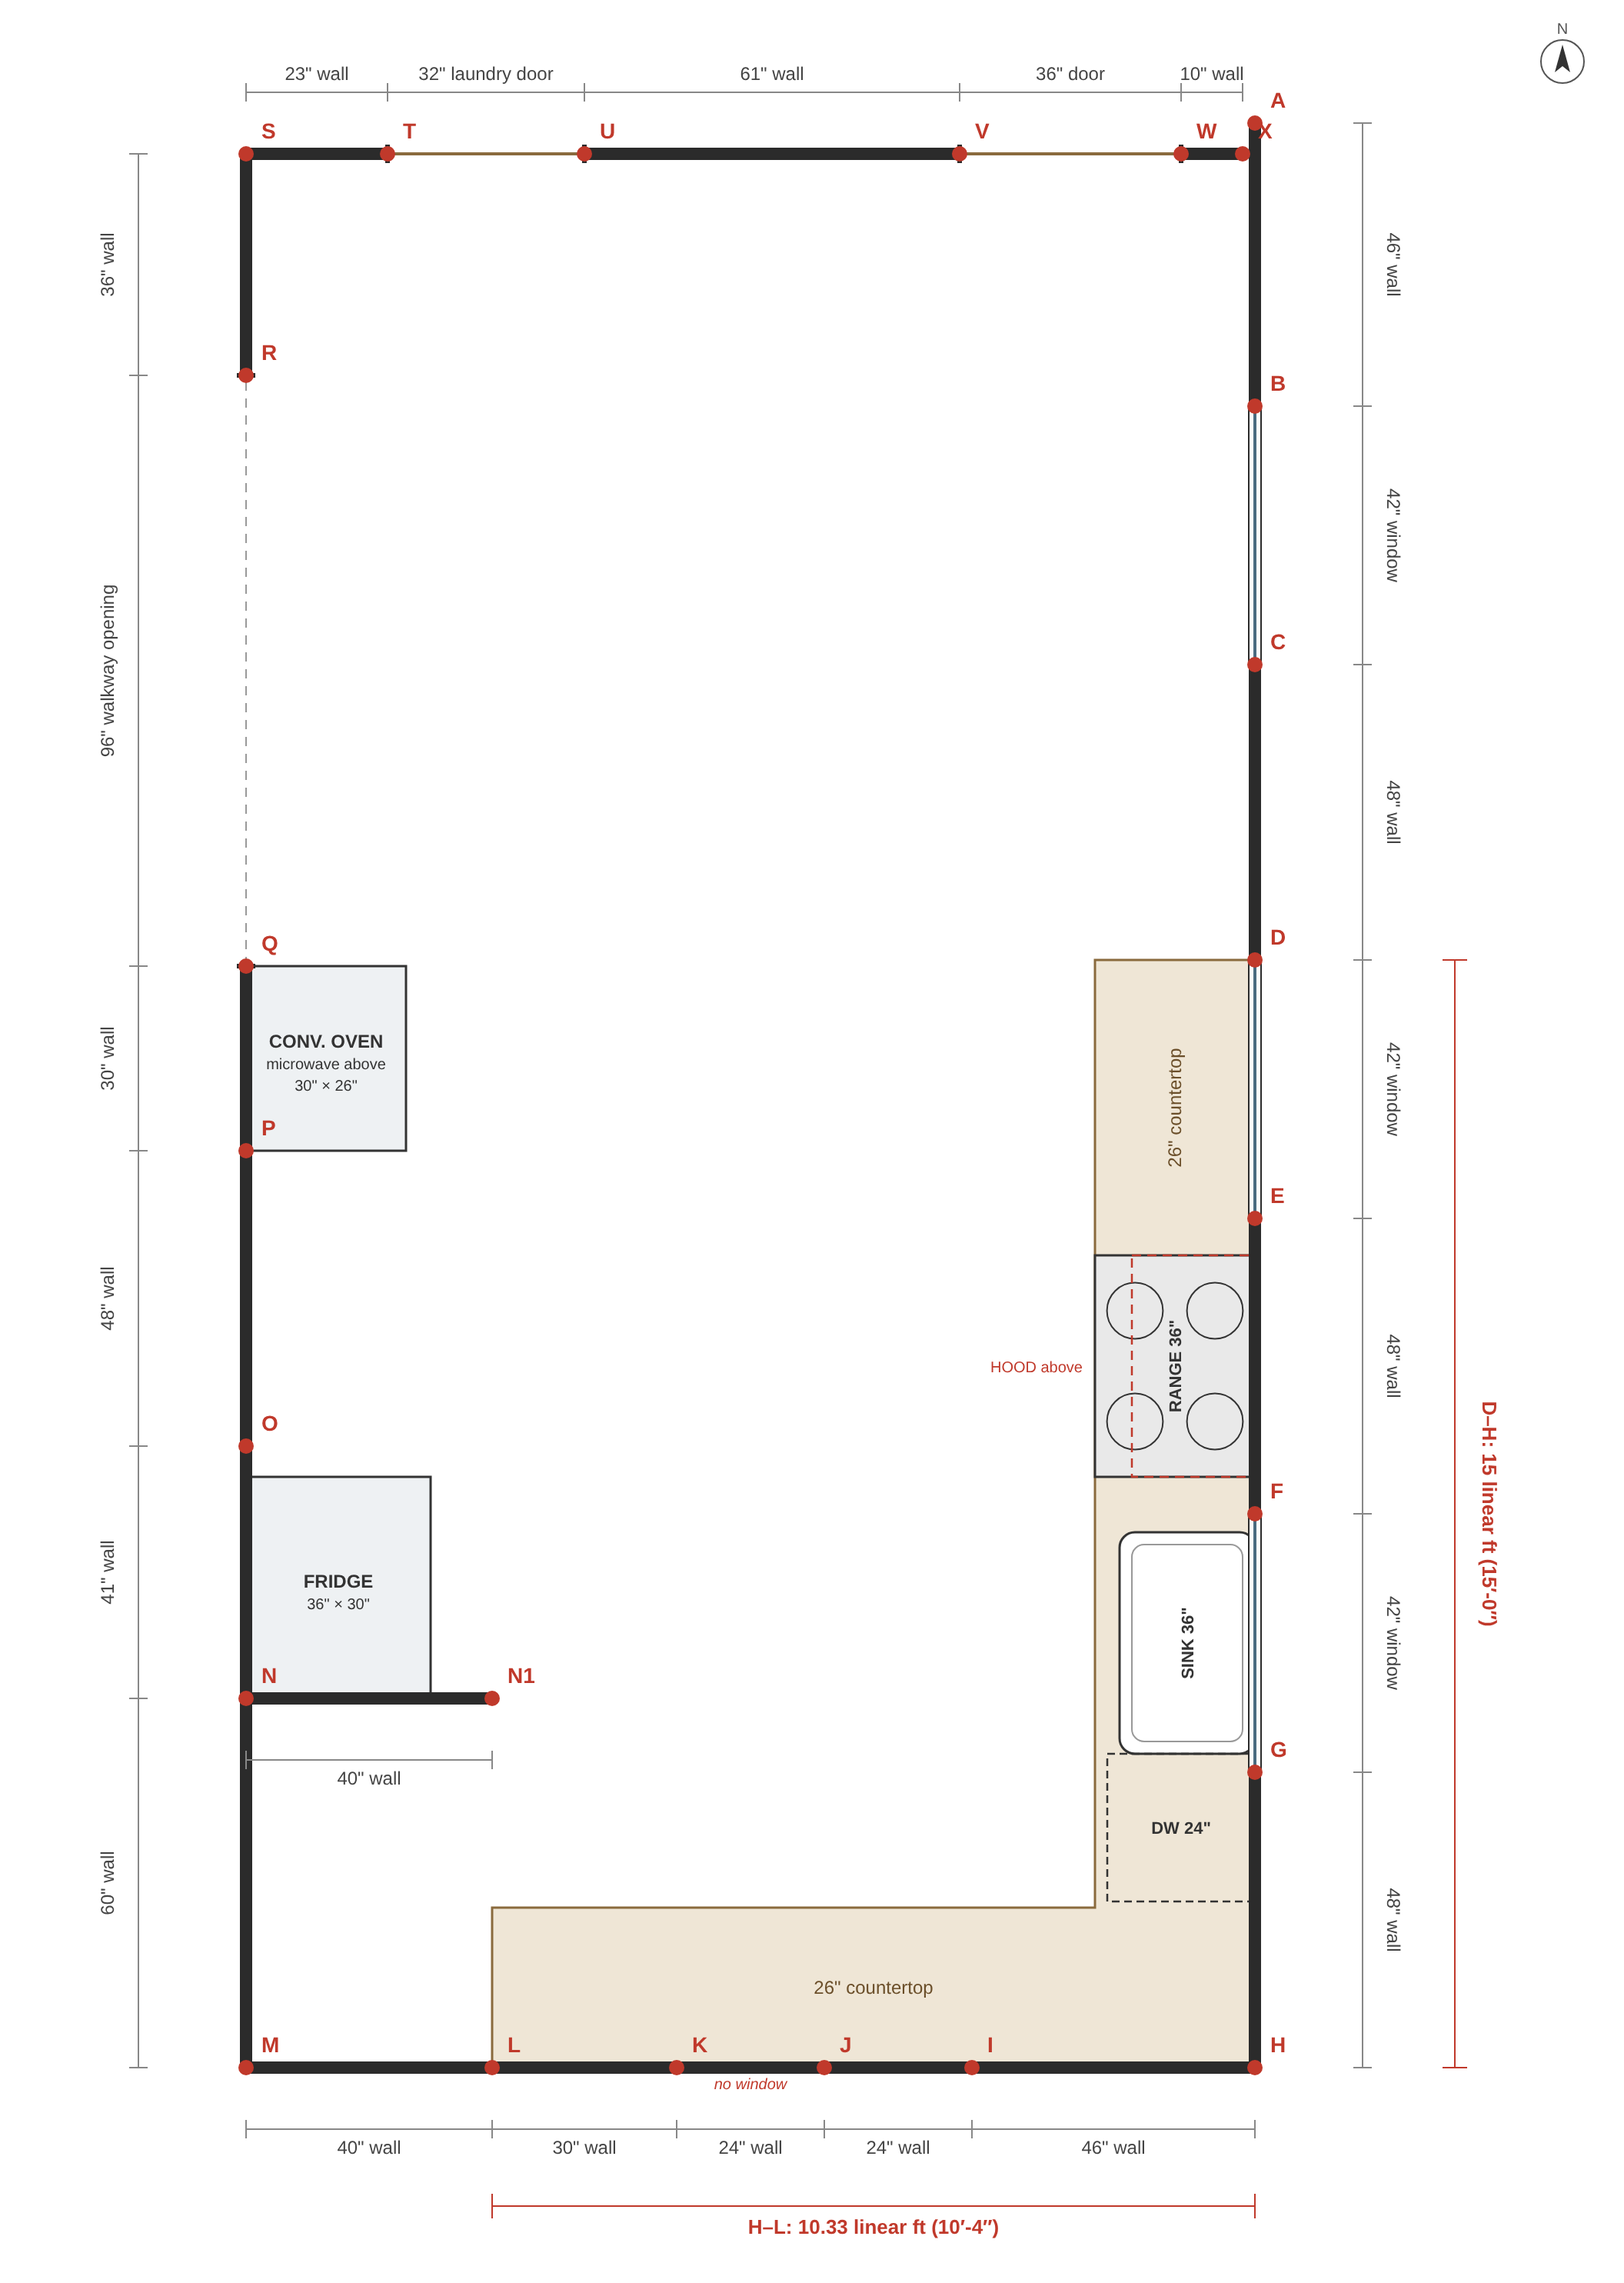
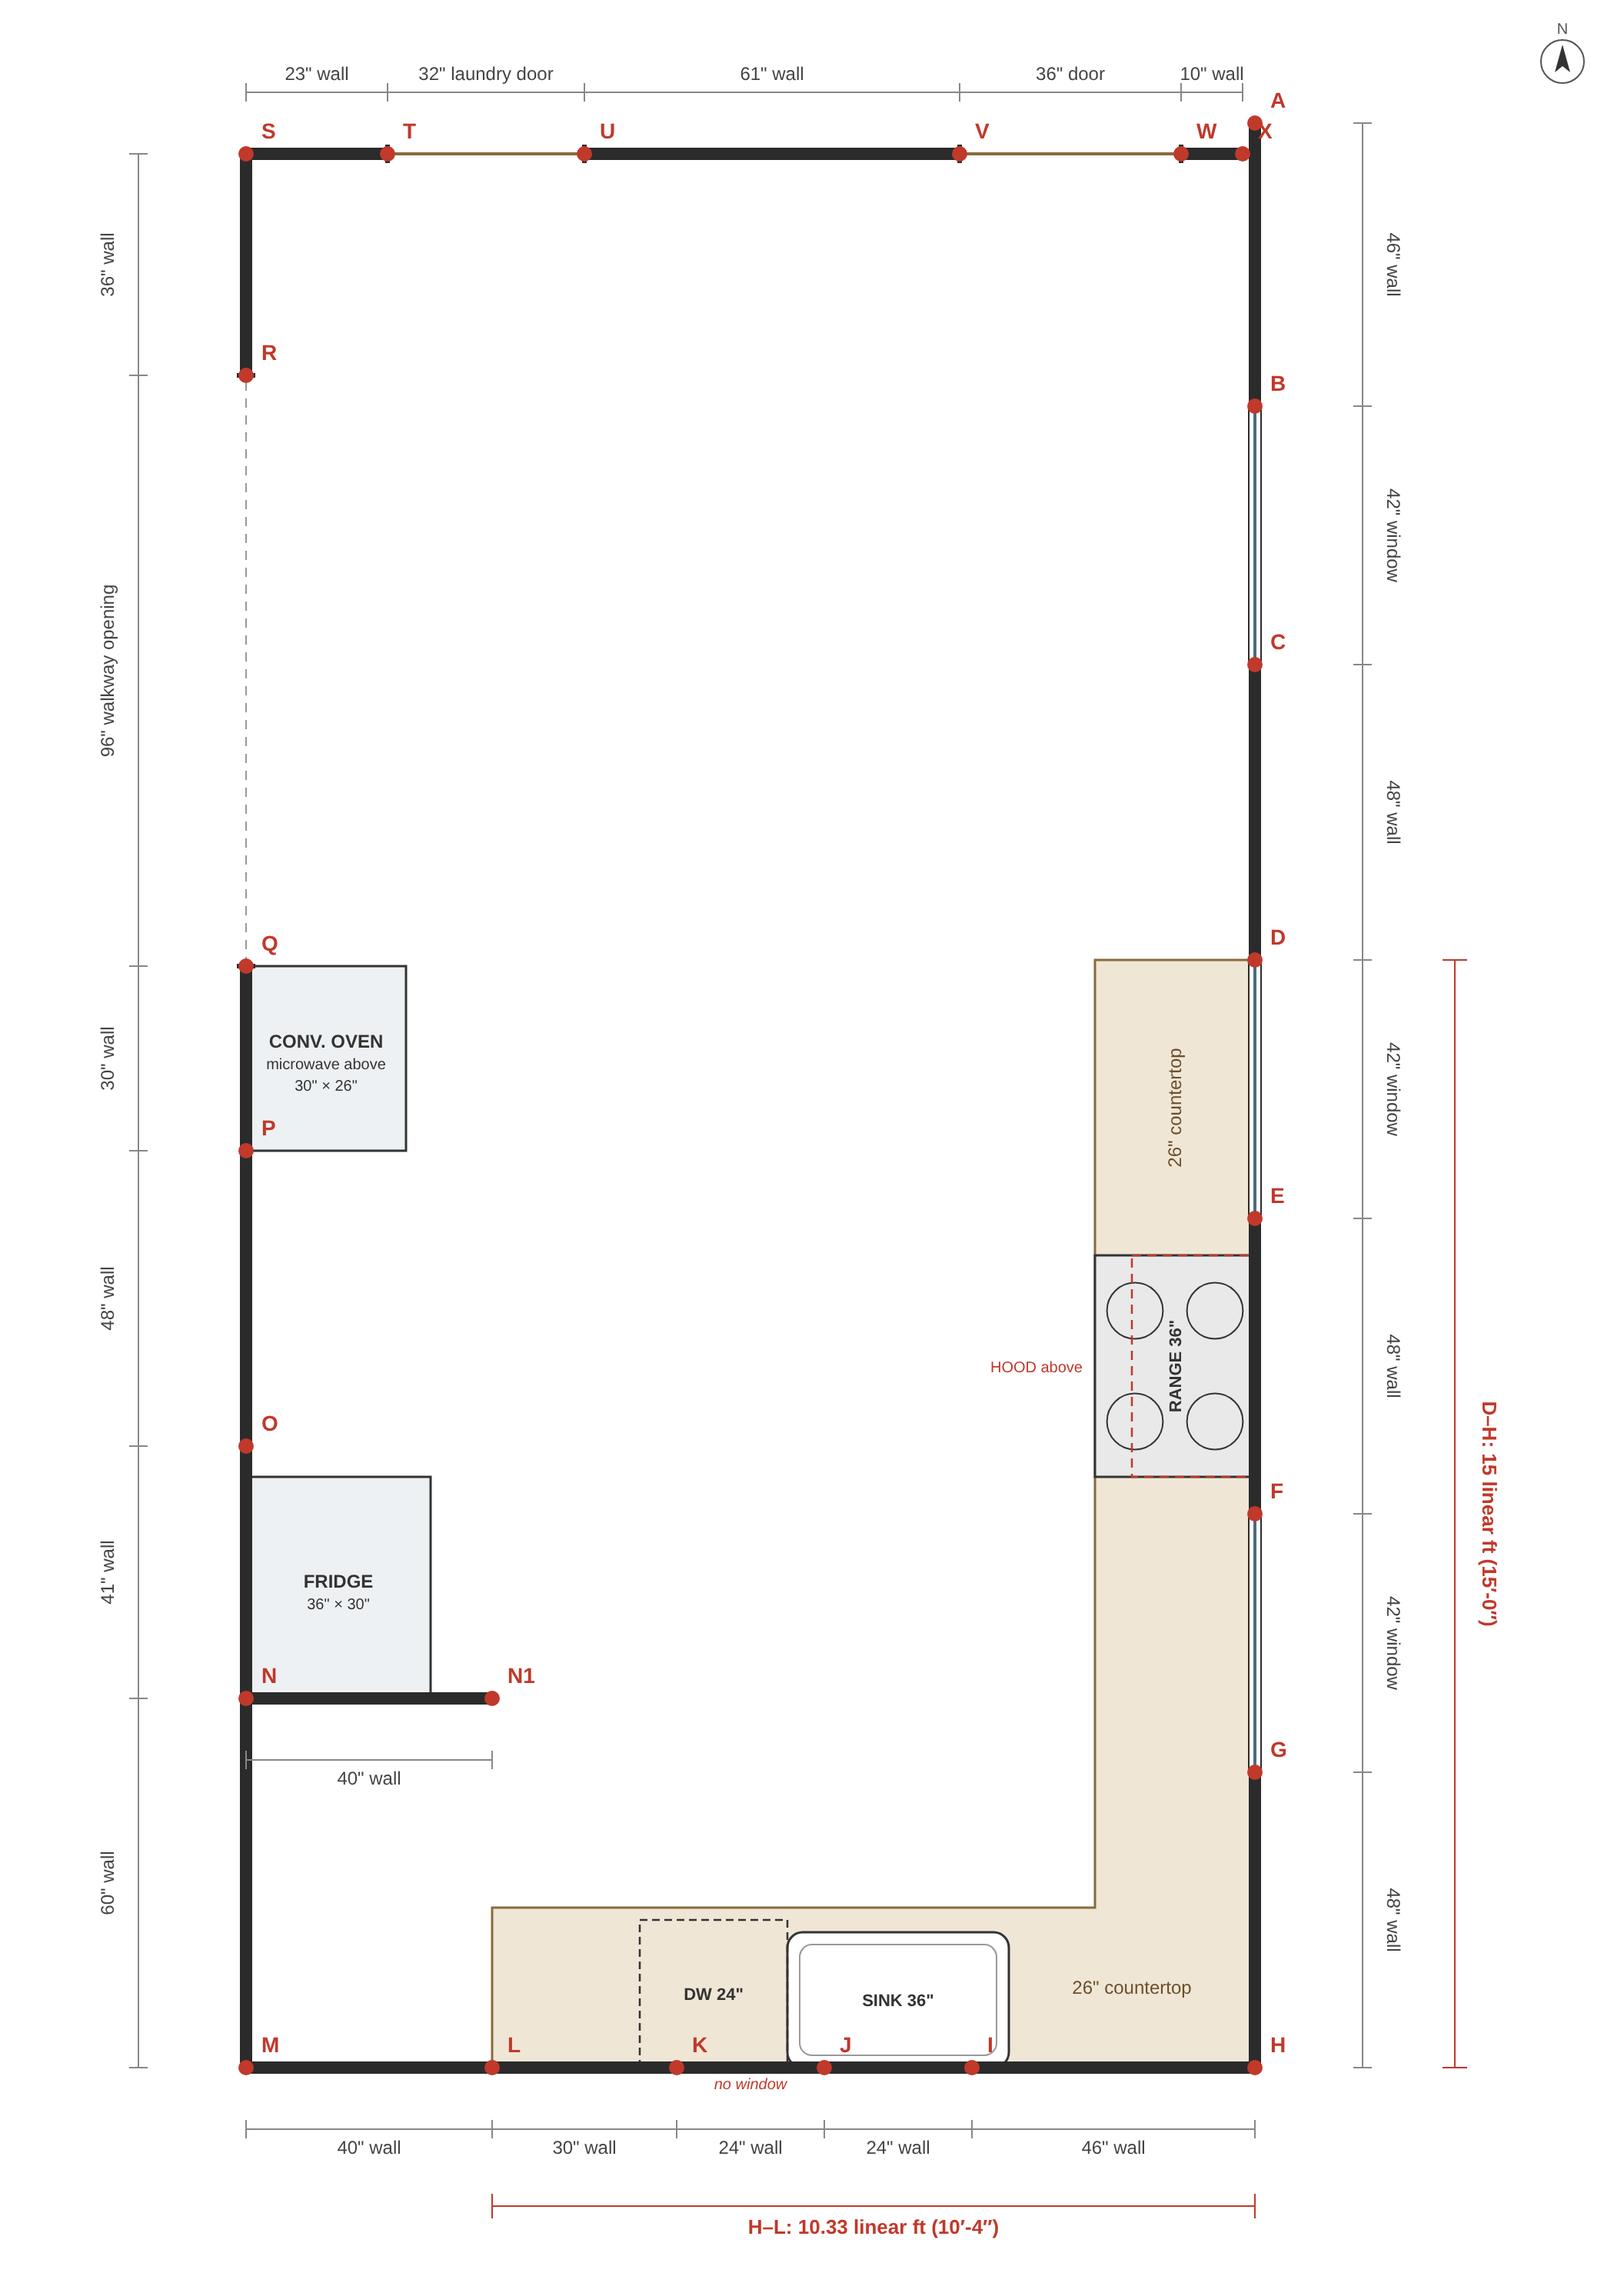
Floor plan: move sink and dishwasher to south wall to separate them from the range
Claude-Session: https://claude.ai/code/session_01N1gJVqnW36KpNULQpj6QJQ

Changed region(s): [[0.4688, 0.8369, 0.625, 0.9299], [0.6875, 0.6509, 0.7812, 0.7749]]

diff --git a/floorplans/build_floorplan.py b/floorplans/build_floorplan.py
@@ -58,8 +58,8 @@ NO_WINDOW = [("J", "K")]
 FIXTURES = [
     ("range", "RANGE", "D", "H", 48, 36, 26),  # centred on solid wall E-F; cook faces east
     ("hood", "HOOD above", "D", "H", 48, 36, 20),  # vents straight out the exterior east wall
-    ("sink", "SINK", "D", "H", 93, 36, 22),  # centred on window F-G
-    ("under", "DW", "D", "H", 129, 24, 24),  # right of the sink, 1" filler before the corner
+    ("sink", "SINK", "H", "L", 40, 36, 22),  # centred on I-J (58" from H)
+    ("under", "DW", "H", "L", 76, 24, 24),  # immediately west of the sink
 ]
 
 DIM_OFFSET = 40  # px, dimension line offset to the left/top of the segment
